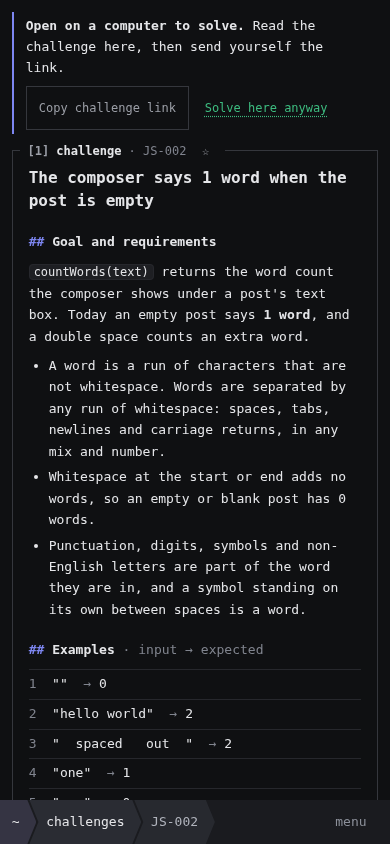
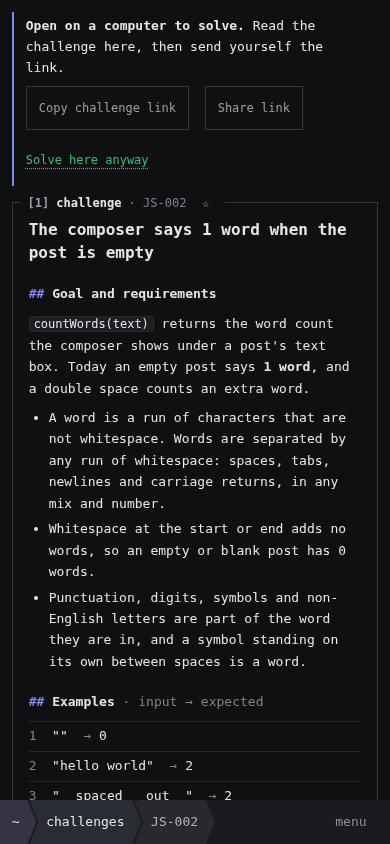
Collapse empty practice tracks while reading on a phone; verify copy, share and narrow desktop (ENG-386)
With the note showing, the code and feedback panes were hidden but the
stacked grid kept their rows (70dvh plus gaps), leaving 490-680px of
blank page under the challenge. The reading-only state now lays the
panes out as a block: only the challenge, with the editor still mounted
for Solve here anyway and rotation.

The mobile check now reads back the real clipboard (exactly
<origin>/challenges/KEY, even when opened with a query), records what
reaches the share sheet when it is dismissed and when it succeeds, and
checks that the challenge context survives both. It checks that no blank
layout remains, that the same mounted editor survives rotation, and
that a narrow desktop window with a mouse keeps the workspace.
Screenshots are regenerated from this source.

diff --git a/tools/browser/mobile-check.ts b/tools/browser/mobile-check.ts
@@ -51,6 +51,14 @@ const DEVICES: Device[] = [
     phone: true,
   },
   { name: "tablet-820", width: 820, height: 1180, touch: true, phone: false },
+  // A narrow desktop window: a mouse, no touch. Not a phone, whatever its width.
+  {
+    name: "desktop-narrow-390",
+    width: 390,
+    height: 844,
+    touch: false,
+    phone: false,
+  },
   {
     name: "desktop-1280",
     width: 1280,
@@ -111,6 +119,26 @@ async function open(device: Device, stealth: boolean) {
     },
     [LEGAL_VERSION, stealth] as const,
   );
+  // The real clipboard, read back; the system share sheet as a recording stand-in that the
+  // person dismisses (AbortError, as browsers report it) unless __shareMode says "ok".
+  await context.grantPermissions(["clipboard-read", "clipboard-write"], {
+    origin,
+  });
+  // No named functions inside: tsx would wrap them in a helper the page doesn't have.
+  await context.addInitScript(() => {
+    const w = window as unknown as {
+      __shares: ShareData[];
+      __shareMode: "dismiss" | "ok";
+    };
+    w.__shares = [];
+    w.__shareMode = "dismiss";
+    Navigator.prototype.share = function (data?: ShareData) {
+      w.__shares.push({ title: data?.title, url: data?.url });
+      return w.__shareMode === "ok"
+        ? Promise.resolve()
+        : Promise.reject(new DOMException("Share canceled", "AbortError"));
+    };
+  });
   const page = await context.newPage();
   page.setDefaultTimeout(60000);
   const errors: string[] = [];
@@ -136,7 +164,7 @@ try {
     await page.waitForURL(`**/challenges/${KEY}`);
 
     // A direct challenge link keeps its address and shows the challenge.
-    await page.goto(`${origin}/challenges/${KEY}`);
+    await page.goto(`${origin}/challenges/${KEY}?from=synthetic-eng386`);
     const title = page.locator(".practice-challenge h1");
     await title.waitFor();
     assert.equal(new URL(page.url()).pathname, `/challenges/${KEY}`);
@@ -157,18 +185,96 @@ try {
     await noOverflow(page, `${device.name} practice`);
     await shot("challenge");
 
+    // Copy and share send exactly the challenge's own address, nothing from this visit.
+    const canonical = `${origin}/challenges/${KEY}`;
+    const where = page.locator(
+      device.phone ? ".practice-desktop-first" : ".practice-challenge",
+    );
+    const copy = where.getByRole("button", { name: "Copy challenge link" });
+    await page.evaluate(() => navigator.clipboard.writeText("synthetic-empty"));
+    await copy.click();
+    await where.getByRole("button", { name: "Link copied" }).waitFor();
+    assert.equal(
+      await page.evaluate(() => navigator.clipboard.readText()),
+      canonical,
+      `${device.name} copied link`,
+    );
+
     if (device.phone) {
-      const copy = page
-        .locator(".practice-desktop-first")
-        .getByRole("button", { name: "Copy challenge link" });
       const box = await copy.boundingBox();
       assert.ok(
         box && box.height >= 44,
         `${device.name} copy target ${box?.height}`,
       );
+      // Dismissing the share sheet leaves the challenge as it was; sharing sends the same link.
+      const share = where.getByRole("button", { name: "Share link" });
+      await share.click();
+      await page.waitForFunction(() => (window as any).__shares.length === 1);
+      await page.evaluate(() => ((window as any).__shareMode = "ok"));
+      await share.click();
+      await page.waitForFunction(() => (window as any).__shares.length === 2);
+      assert.deepEqual(await page.evaluate(() => (window as any).__shares), [
+        { title: live.title, url: canonical },
+        { title: live.title, url: canonical },
+      ]);
+      assert.equal(
+        page.url(),
+        `${origin}/challenges/${KEY}?from=synthetic-eng386`,
+      );
+      assert.equal(await title.textContent(), live.title);
+      assert.equal(await notice.isVisible(), true, "notice after share");
+      // Reading only: nothing but the bar's room under the challenge, no empty editor tracks.
+      const blank = () =>
+        page.evaluate(() => {
+          const pane = document
+            .querySelector(".practice-challenge")!
+            .getBoundingClientRect();
+          const pad = parseFloat(
+            getComputedStyle(document.querySelector(".practice")!)
+              .paddingBottom,
+          );
+          return (
+            document.documentElement.scrollHeight -
+            (pane.bottom + scrollY) -
+            pad
+          );
+        });
+      assert.ok(
+        (await blank()) <= 1,
+        `${device.name} blank ${await blank()}px`,
+      );
+      // Rotating while reading keeps the same mounted editor and the note.
+      const mounted = await editor.elementHandle();
+      await page.setViewportSize({
+        width: device.height,
+        height: device.width,
+      });
+      await page.setViewportSize({
+        width: device.width,
+        height: device.height,
+      });
+      assert.equal(await mounted!.evaluate((n) => n.isConnected), true);
+      assert.equal(await notice.isVisible(), true, "notice after rotation");
+      assert.ok((await blank()) <= 1, `${device.name} blank after rotation`);
+      // The end of the page: the challenge, then only the bar. (A full-page capture would
+      // re-render without touch emulation, so scroll the real viewport instead.)
+      await page.evaluate(() =>
+        scrollTo({
+          top: document.documentElement.scrollHeight,
+          behavior: "instant",
+        }),
+      );
+      assert.equal(await notice.isVisible(), true);
+      await shot("challenge-end");
+      await page.evaluate(() => scrollTo({ top: 0, behavior: "instant" }));
       // Solving anyway shows the editor; it keeps the code across a rotation and Back.
       await page.getByRole("button", { name: "Solve here anyway" }).click();
       await editor.waitFor();
+      assert.equal(
+        await editor.evaluate((n, m) => n === m, mounted),
+        true,
+        "the editor shown is the one mounted while reading",
+      );
       await page.waitForFunction(() =>
         document.activeElement?.closest(".cm-content"),
       );

diff --git a/apps/web/app/practice/practice.css b/apps/web/app/practice/practice.css
@@ -538,6 +538,10 @@
     ) {
     display: none;
   }
+  /* Only the challenge shows: no empty grid tracks below it. The panes stay mounted. */
+  .practice:not(.solve-here) .tui-panes {
+    display: block;
+  }
 }
 
 /* Optional questions after completing: a line each, answers as inline choices. */

diff --git a/docs/eng-386/README.md b/docs/eng-386/README.md
@@ -7,8 +7,10 @@ Screenshots from `tools/browser/mobile-check.ts` in Chromium device emulation (v
 | | |
 | --- | --- |
 | ![Phone 320×640: challenge with "Open on a computer to solve."](phone-320-challenge.png) | ![Phone 390×844: the same](phone-390-challenge.png) |
+| ![Phone 390, scrolled to the end: only the challenge, then the bar (no empty editor space)](phone-390-challenge-end.png) | ![Phone landscape, scrolled to the end: the same](phone-landscape-challenge-end.png) |
 | ![Phone 390: after "Solve here anyway", stacked panes with typed code kept](phone-390-solving-anyway.png) | ![Phone landscape 844×390: challenge to read, note on top](phone-landscape-challenge.png) |
-| ![Tablet 820×1180 (touch): the full workspace, no note](tablet-820-challenge.png) | ![Desktop 1280×800: unchanged workspace; current section bright in the bar](desktop-1280-challenge.png) |
+| ![Tablet 820×1180 (touch): the full workspace, no note](tablet-820-challenge.png) | ![Narrow desktop window 390×844 (mouse, no touch): the stacked workspace, no note](desktop-narrow-390-challenge.png) |
+| ![Desktop 1280×800: unchanged workspace; current section bright in the bar](desktop-1280-challenge.png) | |
 
 ## Navigation, browsing and shared results
 
@@ -16,7 +18,7 @@ Screenshots from `tools/browser/mobile-check.ts` in Chromium device emulation (v
 | --- | --- |
 | ![Phone 390: menu open above the bar, ❯ marks challenges](phone-390-menu-open.png) | ![Phone landscape: menu open](phone-landscape-menu-open.png) |
 | ![Tablet 820: menu open](tablet-820-menu-open.png) | ![Phone 390: challenge picker](phone-390-challenges.png) |
-| ![Phone 390: a synthetic shared result](phone-390-shared-result.png) | |
+| ![Phone 390: a synthetic shared result](phone-390-shared-result.png) | ![Narrow desktop window: menu open](desktop-narrow-390-menu-open.png) |
 
 ## Stats on phones
 
@@ -26,9 +28,11 @@ Screenshots from `tools/browser/mobile-check.ts` in Chromium device emulation (v
 | ![Phone landscape: report with uploaded history unavailable (synthetic 503)](phone-landscape-stats-history-unavailable.png) | ![Phone 390: practice records unreadable (IndexedDB blocked), partial report](phone-390-stats-error-records.png) |
 | ![Phone 320: profile unreadable, error page](phone-320-stats-error-profile.png) | ![Phone 390: stealth](phone-390-stats-stealth.png) |
 
-Interactions asserted on phone 320, phone 390 and phone landscape, plus tablet and desktop where they apply:
+Interactions asserted on phone 320, phone 390 and phone landscape, plus tablet, a narrow desktop window (390×844, mouse) and desktop where they apply:
 - A shared result leads to its challenge, and a direct link keeps its address and title.
-- The note appears only on phones. *Solve here anyway* reveals the panes, and typed code survives rotation and Back.
+- *Copy challenge link* puts exactly `<origin>/challenges/JS-002` on the clipboard, read back from the real clipboard, even when the page was opened with a query string. *Share link* passes the challenge's title and that same URL to the share sheet. Dismissing the sheet (an `AbortError`, from a recording stand-in) leaves the address, the challenge and the note as they were.
+- The note appears only on phones; the narrow desktop window keeps the workspace.
+- While reading on a phone, nothing but the bar's room is left under the challenge (0px of empty layout; the old layout left about 490–680px). Rotating keeps the same mounted editor, and *Solve here anyway* shows that same editor. *Solve here anyway* reveals the panes, and typed code survives rotation and Back.
 - The menu opens by touch and closes with Escape or an outside tap. Keyboard Enter/Tab/Enter works.
 - The current location is marked, with `aria-current` `true` inside a section and `page` on it.
 - Touch targets in the menu and bar are at least 44px.
